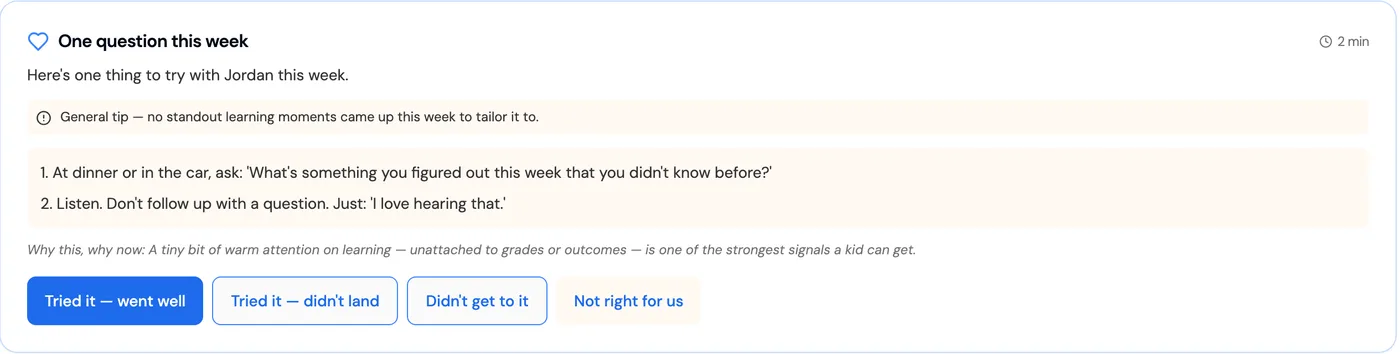
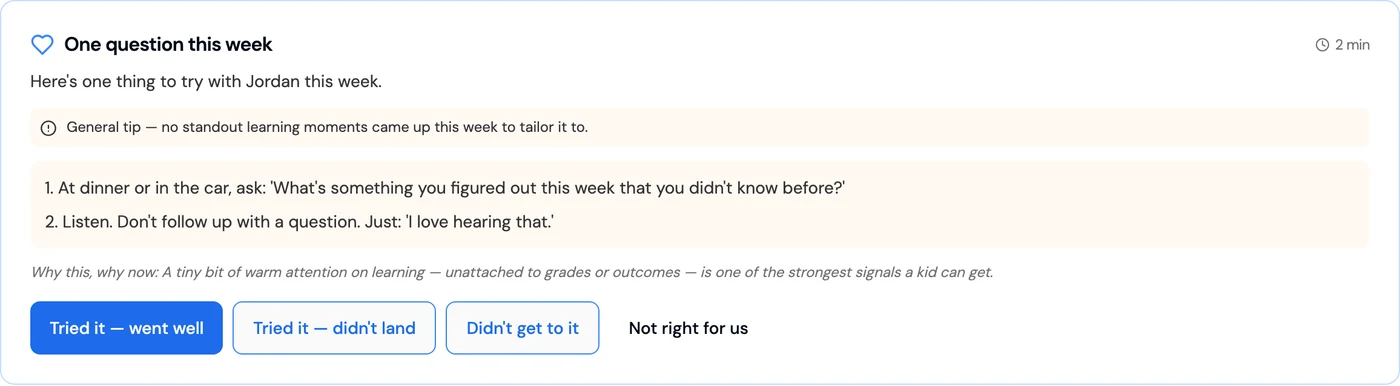
feat(screens): live parent weekly-activity card (batch d)
Swap the old-UI "One question this week" card on /parents for a live capture from the
showcase parent's Home. Same curated-library text, so the copy and alt text are unchanged.

diff --git a/src/data/productScreens.ts b/src/data/productScreens.ts
@@ -5,7 +5,8 @@
 // copy only; its coaching text was test fixture, so its Brief, Recommendations, parent Home and Passport shots aren't used).
 // Batch b gives the student, analytics, Independence Report, message and passport crops: every Sprig line is copied
 // verbatim from the 2026-10-14 showcase transcripts (app-screenshots-2026-10-29-b/transcripts). Batch c (2026-10-30)
-// gives the Brief, the investigation verdict and the Independence Report: live captures on the showcase accounts.
+// gives the Brief, the investigation verdict and the Independence Report, and batch d the parent weekly-activity card:
+// live captures on the showcase accounts.
 
 /**
  * What the interaction on a screen feeds into the learner model. Every line must trace to code in the
@@ -196,7 +197,7 @@ export const screens = {
     "A recommendation for Jordan marked lower confidence, explaining why it matters, what it's based on, what success looks like and when it may be wrong, with Approve, Modify, Dismiss and Track outcome buttons. The page notes that nothing happens until the teacher approves.",
   ),
   parentOneQuestion: screen(
-    'parent-one-question', 1400, 354, 'Parent · One question this week',
+    'parent-one-question', 1400, 386, 'Parent · One question this week',
     "A two-minute suggestion for Jordan's parent: at dinner, ask what Jordan figured out this week, then just listen. It notes it's a general tip because no standout moments came up this week, and offers four feedback buttons.",
   ),
   teacherParentMessage: screen(
